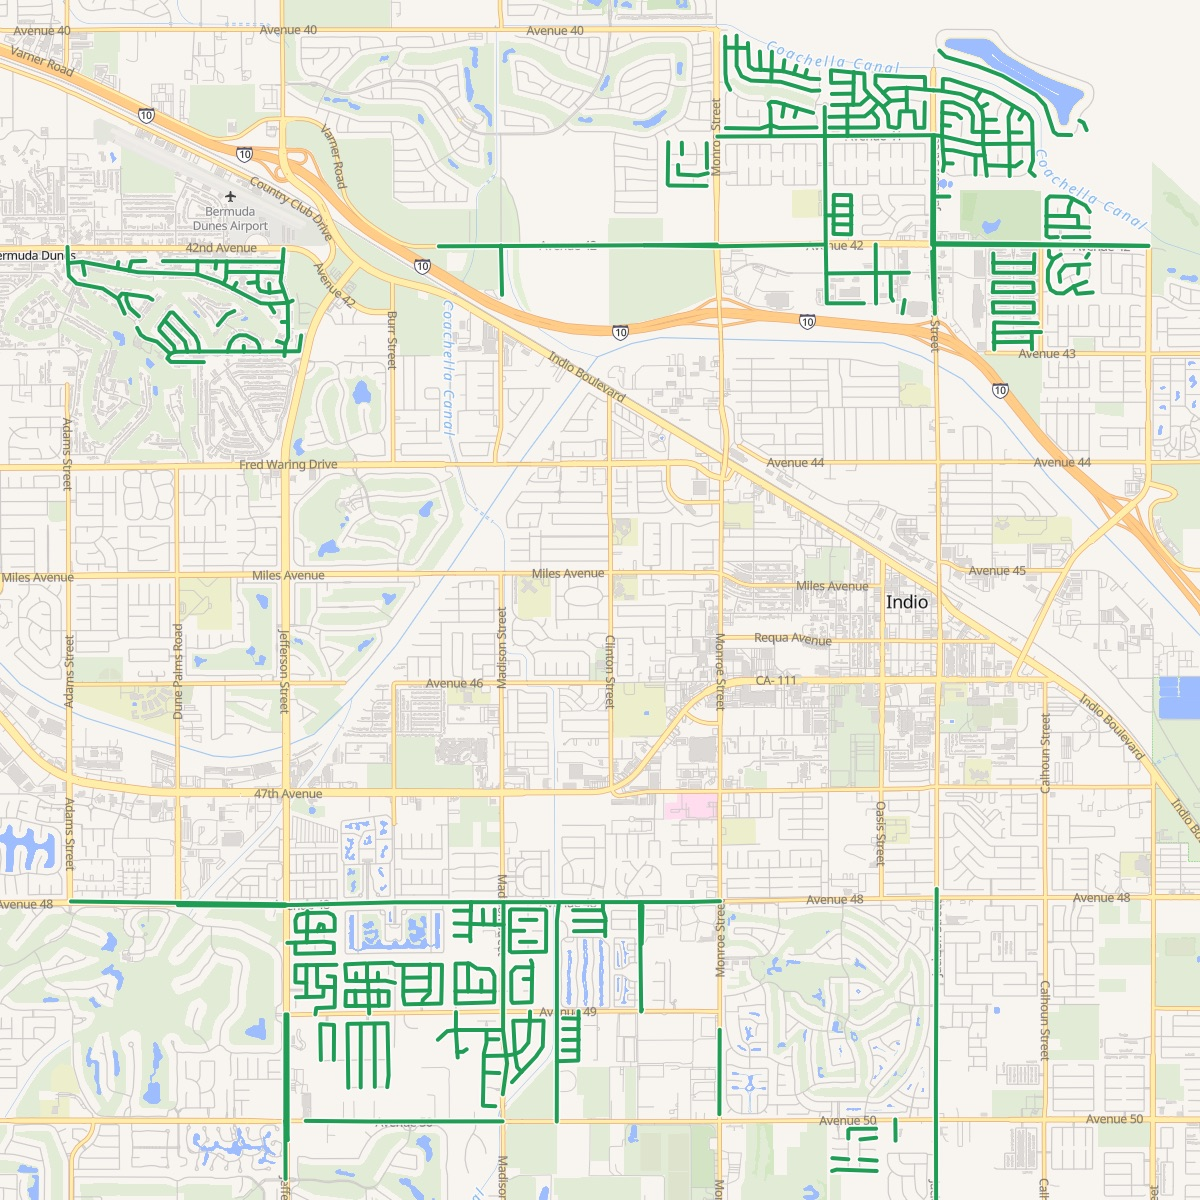
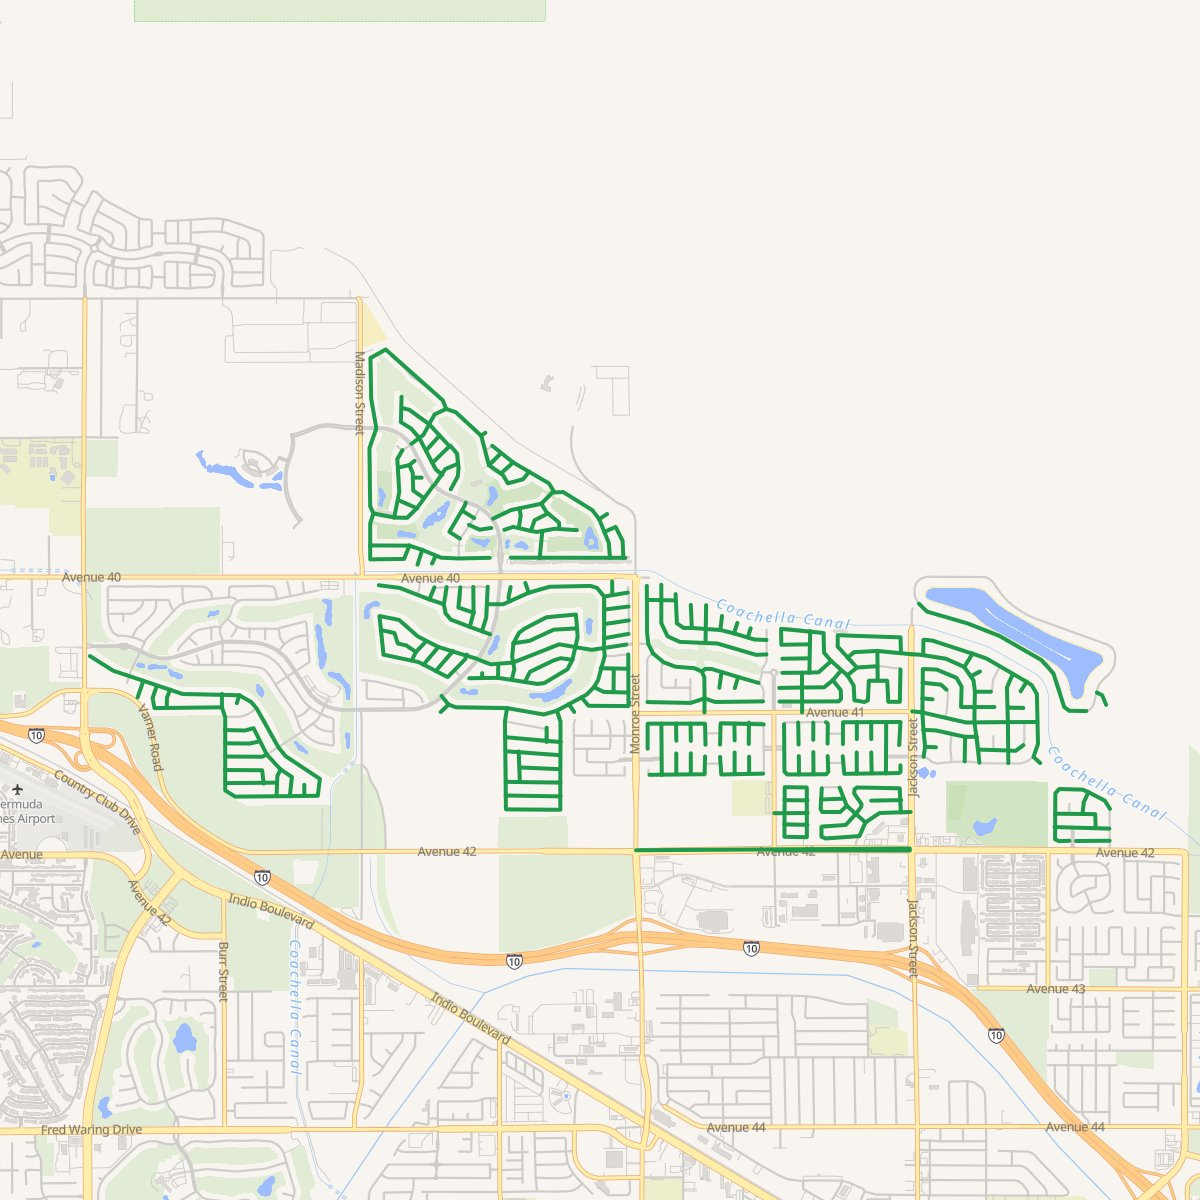
Indio card: switch to 6 touching routes in north Indio (4,791 homes, La Quinta PO)

diff --git a/mailing-area-indio.html b/mailing-area-indio.html
@@ -25,7 +25,7 @@
 <meta name="viewport" content="width=device-width, initial-scale=1">
 <script type="text/javascript">(function(i,m,p,a,c,t){c.ire_o=p;c[p]=c[p]||function(){(c[p].a=c[p].a||[]).push(arguments)};t=a.createElement(m);var z=a.getElementsByTagName(m)[0];t.async=1;t.src=i;z.parentNode.insertBefore(t,z)})('https://utt.impactcdn.com/P-A8063333-b369-4de8-a2dd-14aeee36646f1.js','script','impactStat',document,window);impactStat('transformLinks');impactStat('trackImpression');</script>
 <title>Indio Mailing Area Report | Coachella Valley Spotlight</title>
-<meta name="description" content="Who the Indio Spotlight postcard would reach: 4,994 homes on 7 USPS carrier routes, income, home values and more for zip codes 92201 and 92203.">
+<meta name="description" content="Who the Indio Spotlight postcard would reach: 4,791 homes on 6 USPS carrier routes in north Indio, income, home values and more for zip code 92203.">
 <link rel="canonical" href="https://coachellavalleyspotlight.com/mailing-area-indio">
 <meta property="og:url" content="https://coachellavalleyspotlight.com/mailing-area-indio">
 <meta property="og:type" content="website">
@@ -53,14 +53,13 @@
 <a class="more" href="coverage-map?route=indio">&larr; Back to the coverage map</a>
 <span class="eyebrow" style="margin-top:24px"><span class="stripe-mini"></span>Mailing area report &middot; Indio</span>
 <h1>Who This Mailing <span class="grad">Would Reach.</span></h1>
-<p>7 USPS carrier routes in Indio &middot; Zip codes 92201 and 92203. Neighborhoods north of I-10 near Bermuda Dunes and the newer communities south of Avenue 48. A strong fit for home services, dentists, fitness and family restaurants.</p>
+<p>6 USPS carrier routes in Indio &middot; Zip code 92203. One solid block of north Indio between Avenue 39 and Avenue 42, from Varner Road to Jackson Street, including Sun City Shadow Hills. Almost every home is a single-family house its owner lives in. A strong fit for home services, medical and wellness, dentists, financial advisors and restaurants.</p>
 <p class="cov-muted" style="margin-top:8px"><b>Booking now.</b> First mailing Thu, Jan 21, 2027 (artwork due Mon, Jan 11), then Feb 18 and Mar 18. A card mails once 8 businesses are on it, and there&rsquo;s one business per category. <a href="mailing-calendar">See every date</a>.</p>
-<div class="stats" style="grid-template-columns:repeat(2,1fr);margin-top:24px"><div class="stat"><b>4,994</b><span>homes reached</span></div><div class="stat"><b>7</b><span>USPS carrier routes</span></div></div>
+<div class="stats" style="grid-template-columns:repeat(2,1fr);margin-top:24px"><div class="stat"><b>4,791</b><span>homes reached</span></div><div class="stat"><b>6</b><span>USPS carrier routes</span></div></div>
 <figure class="route-map"><img src="assets/img/routes/indio-map.jpg" alt="Map of the Indio mailing area, with the selected carrier routes drawn in green" width="1200" height="1200" loading="lazy"><figcaption>The selected carrier routes, drawn in green. Map: OpenFreeMap, &copy; OpenMapTiles, data &copy; OpenStreetMap contributors.</figcaption></figure>
 <h2 class="month-head"><span class="stripe-mini"></span>The households on this route</h2>
-<div class="stats" style="grid-template-columns:repeat(3,1fr)"><div class="stat"><span>Median household income</span><b style="margin-top:8px">$138K</b></div><div class="stat"><span>Median home value</span><b style="margin-top:8px">$681K</b></div><div class="stat"><span>Owner-occupied homes</span><b style="margin-top:8px">85%</b></div><div class="stat"><span>Single-family houses</span><b style="margin-top:8px">83%</b></div><div class="stat"><span>Households with kids</span><b style="margin-top:8px">36%</b></div><div class="stat"><span>Median age</span><b style="margin-top:8px">45.9</b></div></div>
-<p class="cov-muted" style="margin-top:12px;font-size:14px">Homes: USPS Every Door Direct Mail counts. Households: U.S. Census Bureau, American Community Survey 2020&ndash;2024 5-year estimates for the neighborhoods these routes run through, weighted by homes on each route. Carrier routes: 92201-C023, 92201-C037, 92201-R002, 92203-C028, 92203-R104, 92203-R108, 92203-R111. Cards drop at the Indio and La Quinta Post Offices.</p>
-<p style="margin-top:12px"><a class="more" href="assets/reports/indio-mailing-area-report.pdf" target="_blank" rel="noopener">Download the full report, route by route (PDF) &rarr;</a></p>
+<div class="stats" style="grid-template-columns:repeat(3,1fr)"><div class="stat"><span>Median household income</span><b style="margin-top:8px">$123K</b></div><div class="stat"><span>Median home value</span><b style="margin-top:8px">$554K</b></div><div class="stat"><span>Owner-occupied homes</span><b style="margin-top:8px">94%</b></div><div class="stat"><span>Single-family houses</span><b style="margin-top:8px">99%</b></div><div class="stat"><span>Households with kids</span><b style="margin-top:8px">28%</b></div><div class="stat"><span>Median age</span><b style="margin-top:8px">55.8</b></div></div>
+<p class="cov-muted" style="margin-top:12px;font-size:14px">Homes: USPS Every Door Direct Mail counts. Households: U.S. Census Bureau, American Community Survey 2020&ndash;2024 5-year estimates for the block groups these routes run through, weighted by homes on each route. Carrier routes: 92203-R104, 92203-R106, 92203-R108, 92203-R109, 92203-R105, 92203-R110. Cards drop at the La Quinta Post Office.</p>
 <div class="cta-row" style="margin-top:32px"><a class="btn" href="reserve?route=indio&amp;mail=2027-01-21">Hold my Indio spot</a><a class="btn btn-ghost" href="tel:+17604225475">Call (760) 422-5475</a></div>
 </div></section>
 </main>

diff --git a/data/mailings.js b/data/mailings.js
@@ -19,7 +19,7 @@ window.CVS_MAILINGS = [
   {"route":"rancho-mirage","name":"Rancho Mirage","area":"Rancho Mirage 92270","homes":"4,976 homes","mail":"2027-01-21","deadline":"2027-01-11","minSold":8,"format":"9x12","minDollars":2500},
   {"route":"indian-wells","name":"Indian Wells","area":"Indian Wells 92210","homes":"4,461 homes","mail":"2027-01-21","deadline":"2027-01-11","minSold":8,"format":"9x12","minDollars":2500},
   {"route":"la-quinta","name":"La Quinta","area":"La Quinta 92253","homes":"4,995 homes","mail":"2027-01-21","deadline":"2027-01-11","minSold":8,"format":"9x12","minDollars":2500},
-  {"route":"indio","name":"Indio","area":"Indio 92201 · 92203","homes":"4,994 homes","mail":"2027-01-21","deadline":"2027-01-11","minSold":8,"format":"9x12","minDollars":2500},
+  {"route":"indio","name":"Indio","area":"Indio 92203","homes":"4,791 homes","mail":"2027-01-21","deadline":"2027-01-11","minSold":8,"format":"9x12","minDollars":2500},
   {"route":"coachella","name":"Coachella","area":"Coachella 92236","homes":"4,998 homes","mail":"2027-01-21","deadline":"2027-01-11","minSold":8,"format":"9x12","minDollars":2500},
   {"route":"desert-hot-springs","name":"Desert Hot Springs","area":"Desert Hot Springs 92240 · 92241","homes":"4,977 homes","mail":"2027-01-21","deadline":"2027-01-11","minSold":8,"format":"9x12","minDollars":2500},
   {"route":"el-paseo","name":"El Paseo","area":"Palm Desert 92260, around El Paseo","homes":"4,968 homes","mail":"2027-02-18","deadline":"2027-02-08","minSold":8,"format":"9x12","minDollars":2500},
@@ -29,7 +29,7 @@ window.CVS_MAILINGS = [
   {"route":"rancho-mirage","name":"Rancho Mirage","area":"Rancho Mirage 92270","homes":"4,976 homes","mail":"2027-02-18","deadline":"2027-02-08","minSold":8,"format":"9x12","minDollars":2500},
   {"route":"indian-wells","name":"Indian Wells","area":"Indian Wells 92210","homes":"4,461 homes","mail":"2027-02-18","deadline":"2027-02-08","minSold":8,"format":"9x12","minDollars":2500},
   {"route":"la-quinta","name":"La Quinta","area":"La Quinta 92253","homes":"4,995 homes","mail":"2027-02-18","deadline":"2027-02-08","minSold":8,"format":"9x12","minDollars":2500},
-  {"route":"indio","name":"Indio","area":"Indio 92201 · 92203","homes":"4,994 homes","mail":"2027-02-18","deadline":"2027-02-08","minSold":8,"format":"9x12","minDollars":2500},
+  {"route":"indio","name":"Indio","area":"Indio 92203","homes":"4,791 homes","mail":"2027-02-18","deadline":"2027-02-08","minSold":8,"format":"9x12","minDollars":2500},
   {"route":"coachella","name":"Coachella","area":"Coachella 92236","homes":"4,998 homes","mail":"2027-02-18","deadline":"2027-02-08","minSold":8,"format":"9x12","minDollars":2500},
   {"route":"desert-hot-springs","name":"Desert Hot Springs","area":"Desert Hot Springs 92240 · 92241","homes":"4,977 homes","mail":"2027-02-18","deadline":"2027-02-08","minSold":8,"format":"9x12","minDollars":2500},
   {"route":"el-paseo","name":"El Paseo","area":"Palm Desert 92260, around El Paseo","homes":"4,968 homes","mail":"2027-03-18","deadline":"2027-03-08","minSold":8,"format":"9x12","minDollars":2500},
@@ -39,7 +39,7 @@ window.CVS_MAILINGS = [
   {"route":"rancho-mirage","name":"Rancho Mirage","area":"Rancho Mirage 92270","homes":"4,976 homes","mail":"2027-03-18","deadline":"2027-03-08","minSold":8,"format":"9x12","minDollars":2500},
   {"route":"indian-wells","name":"Indian Wells","area":"Indian Wells 92210","homes":"4,461 homes","mail":"2027-03-18","deadline":"2027-03-08","minSold":8,"format":"9x12","minDollars":2500},
   {"route":"la-quinta","name":"La Quinta","area":"La Quinta 92253","homes":"4,995 homes","mail":"2027-03-18","deadline":"2027-03-08","minSold":8,"format":"9x12","minDollars":2500},
-  {"route":"indio","name":"Indio","area":"Indio 92201 · 92203","homes":"4,994 homes","mail":"2027-03-18","deadline":"2027-03-08","minSold":8,"format":"9x12","minDollars":2500},
+  {"route":"indio","name":"Indio","area":"Indio 92203","homes":"4,791 homes","mail":"2027-03-18","deadline":"2027-03-08","minSold":8,"format":"9x12","minDollars":2500},
   {"route":"coachella","name":"Coachella","area":"Coachella 92236","homes":"4,998 homes","mail":"2027-03-18","deadline":"2027-03-08","minSold":8,"format":"9x12","minDollars":2500},
   {"route":"desert-hot-springs","name":"Desert Hot Springs","area":"Desert Hot Springs 92240 · 92241","homes":"4,977 homes","mail":"2027-03-18","deadline":"2027-03-08","minSold":8,"format":"9x12","minDollars":2500}
 ];

diff --git a/data/routes.js b/data/routes.js
@@ -12,7 +12,7 @@ window.CVS_ROUTES = [
   {"id": "rancho-mirage", "name": "Rancho Mirage", "city": "Rancho Mirage", "status": "live", "homes": 4976, "doors": 5156, "postOffices": ["Rancho Mirage"], "routes": [{"r": "92270-C005", "homes": 652, "doors": 655, "po": "Rancho Mirage"}, {"r": "92270-C008", "homes": 755, "doors": 760, "po": "Rancho Mirage"}, {"r": "92270-C009", "homes": 603, "doors": 607, "po": "Rancho Mirage"}, {"r": "92270-C012", "homes": 474, "doors": 486, "po": "Rancho Mirage"}, {"r": "92270-C014", "homes": 508, "doors": 510, "po": "Rancho Mirage"}, {"r": "92270-C019", "homes": 710, "doors": 764, "po": "Rancho Mirage"}, {"r": "92270-C020", "homes": 780, "doors": 780, "po": "Rancho Mirage"}, {"r": "92270-C026", "homes": 494, "doors": 594, "po": "Rancho Mirage"}]},
   {"id": "indian-wells", "name": "Indian Wells", "city": "Indian Wells", "status": "live", "homes": 4461, "doors": 4598, "postOffices": ["Palm Desert"], "routes": [{"r": "92210-C007", "homes": 103, "doors": 129, "po": "Palm Desert"}, {"r": "92210-C010", "homes": 738, "doors": 740, "po": "Palm Desert"}, {"r": "92210-C038", "homes": 1172, "doors": 1177, "po": "Palm Desert"}, {"r": "92210-C039", "homes": 589, "doors": 590, "po": "Palm Desert"}, {"r": "92210-C040", "homes": 550, "doors": 551, "po": "Palm Desert"}, {"r": "92210-C059", "homes": 618, "doors": 716, "po": "Palm Desert"}, {"r": "92210-C063", "homes": 691, "doors": 695, "po": "Palm Desert"}]},
   {"id": "la-quinta", "name": "La Quinta", "city": "La Quinta", "status": "live", "homes": 4995, "doors": 5036, "postOffices": ["La Quinta"], "routes": [{"r": "92253-C010", "homes": 784, "doors": 802, "po": "La Quinta"}, {"r": "92253-C022", "homes": 1026, "doors": 1031, "po": "La Quinta"}, {"r": "92253-C044", "homes": 764, "doors": 768, "po": "La Quinta"}, {"r": "92253-H005", "homes": 793, "doors": 799, "po": "La Quinta"}, {"r": "92253-R001", "homes": 883, "doors": 886, "po": "La Quinta"}, {"r": "92253-R002", "homes": 745, "doors": 750, "po": "La Quinta"}]},
-  {"id": "indio", "name": "Indio", "city": "Indio", "status": "live", "homes": 4994, "doors": 5190, "postOffices": ["Indio", "La Quinta"], "routes": [{"r": "92201-C023", "homes": 1061, "doors": 1067, "po": "Indio"}, {"r": "92201-C037", "homes": 894, "doors": 896, "po": "Indio"}, {"r": "92201-R002", "homes": 475, "doors": 516, "po": "Indio"}, {"r": "92203-C028", "homes": 596, "doors": 598, "po": "La Quinta"}, {"r": "92203-R104", "homes": 722, "doors": 722, "po": "La Quinta"}, {"r": "92203-R108", "homes": 706, "doors": 709, "po": "La Quinta"}, {"r": "92203-R111", "homes": 540, "doors": 682, "po": "La Quinta"}]},
+  {"id": "indio", "name": "Indio", "city": "Indio", "status": "live", "homes": 4791, "doors": 4823, "postOffices": ["La Quinta"], "routes": [{"r": "92203-R104", "homes": 722, "doors": 722, "po": "La Quinta"}, {"r": "92203-R106", "homes": 694, "doors": 718, "po": "La Quinta"}, {"r": "92203-R108", "homes": 706, "doors": 709, "po": "La Quinta"}, {"r": "92203-R109", "homes": 938, "doors": 938, "po": "La Quinta"}, {"r": "92203-R105", "homes": 874, "doors": 879, "po": "La Quinta"}, {"r": "92203-R110", "homes": 857, "doors": 857, "po": "La Quinta"}]},
   {"id": "coachella", "name": "Coachella", "city": "Coachella", "status": "live", "homes": 4998, "doors": 5175, "postOffices": ["Coachella"], "routes": [{"r": "92236-C007", "homes": 876, "doors": 933, "po": "Coachella"}, {"r": "92236-C008", "homes": 838, "doors": 901, "po": "Coachella"}, {"r": "92236-R001", "homes": 769, "doors": 778, "po": "Coachella"}, {"r": "92236-R002", "homes": 811, "doors": 828, "po": "Coachella"}, {"r": "92236-R004", "homes": 771, "doors": 798, "po": "Coachella"}, {"r": "92236-R005", "homes": 933, "doors": 937, "po": "Coachella"}]},
   {"id": "desert-hot-springs", "name": "Desert Hot Springs", "city": "Desert Hot Springs", "status": "live", "homes": 4977, "doors": 5136, "postOffices": ["Desert Hot Springs"], "routes": [{"r": "92240-C007", "homes": 986, "doors": 989, "po": "Desert Hot Springs"}, {"r": "92240-C016", "homes": 1206, "doors": 1247, "po": "Desert Hot Springs"}, {"r": "92240-C024", "homes": 1196, "doors": 1303, "po": "Desert Hot Springs"}, {"r": "92240-C025", "homes": 897, "doors": 901, "po": "Desert Hot Springs"}, {"r": "92241-C010", "homes": 692, "doors": 696, "po": "Desert Hot Springs"}]}
 ];

diff --git a/coverage-map.html b/coverage-map.html
@@ -204,7 +204,7 @@
     { id: "rancho-mirage", name: "Rancho Mirage", town: "Rancho Mirage", zip: "92270", homes: "4,976", x: 35, y: 67, w: 9, h: 12, area: "mailing-area-rancho-mirage", blurb: "Eight carrier routes in Rancho Mirage's established, higher-income neighborhoods. Join the waitlist to get first pick of categories." },
     { id: "indian-wells", name: "Indian Wells", town: "Indian Wells", zip: "92210", homes: "4,461", x: 56, y: 63, w: 8, h: 10, area: "mailing-area-indian-wells", blurb: "Every home in Indian Wells, all seven carrier routes. Join the waitlist to get first pick of categories." },
     { id: "la-quinta", name: "La Quinta", town: "La Quinta", zip: "92253", homes: "4,995", x: 61, y: 87, w: 10, h: 13, area: "mailing-area-la-quinta", blurb: "Six carrier routes in La Quinta's golf communities and higher-income streets. Join the waitlist to get first pick of categories." },
-    { id: "indio", name: "Indio", town: "Indio", zip: "92201 &middot; 92203", homes: "4,994", x: 79, y: 74, w: 10, h: 14, area: "mailing-area-indio", blurb: "Seven carrier routes in north Indio near Bermuda Dunes and the newer neighborhoods south of Avenue 48. Join the waitlist to get first pick of categories." },
+    { id: "indio", name: "Indio", town: "Indio", zip: "92203", homes: "4,791", x: 79, y: 74, w: 10, h: 14, area: "mailing-area-indio", blurb: "Six carrier routes in one block of north Indio, Avenue 39 to 42, including Sun City Shadow Hills. Join the waitlist to get first pick of categories." },
     { id: "coachella", name: "Coachella", town: "Coachella", zip: "92236", homes: "4,998", x: 91, y: 89, w: 9, h: 12, area: "mailing-area-coachella", blurb: "Six carrier routes covering Coachella's family neighborhoods. Join the waitlist to get first pick of categories." },
     { id: "desert-hot-springs", name: "Desert Hot Springs", town: "Desert Hot Springs", zip: "92240 &middot; 92241", homes: "4,977", x: 22, y: 15, w: 11, h: 14, area: "mailing-area-desert-hot-springs", blurb: "Five carrier routes across Desert Hot Springs. Join the waitlist to get first pick of categories." }
   ];
